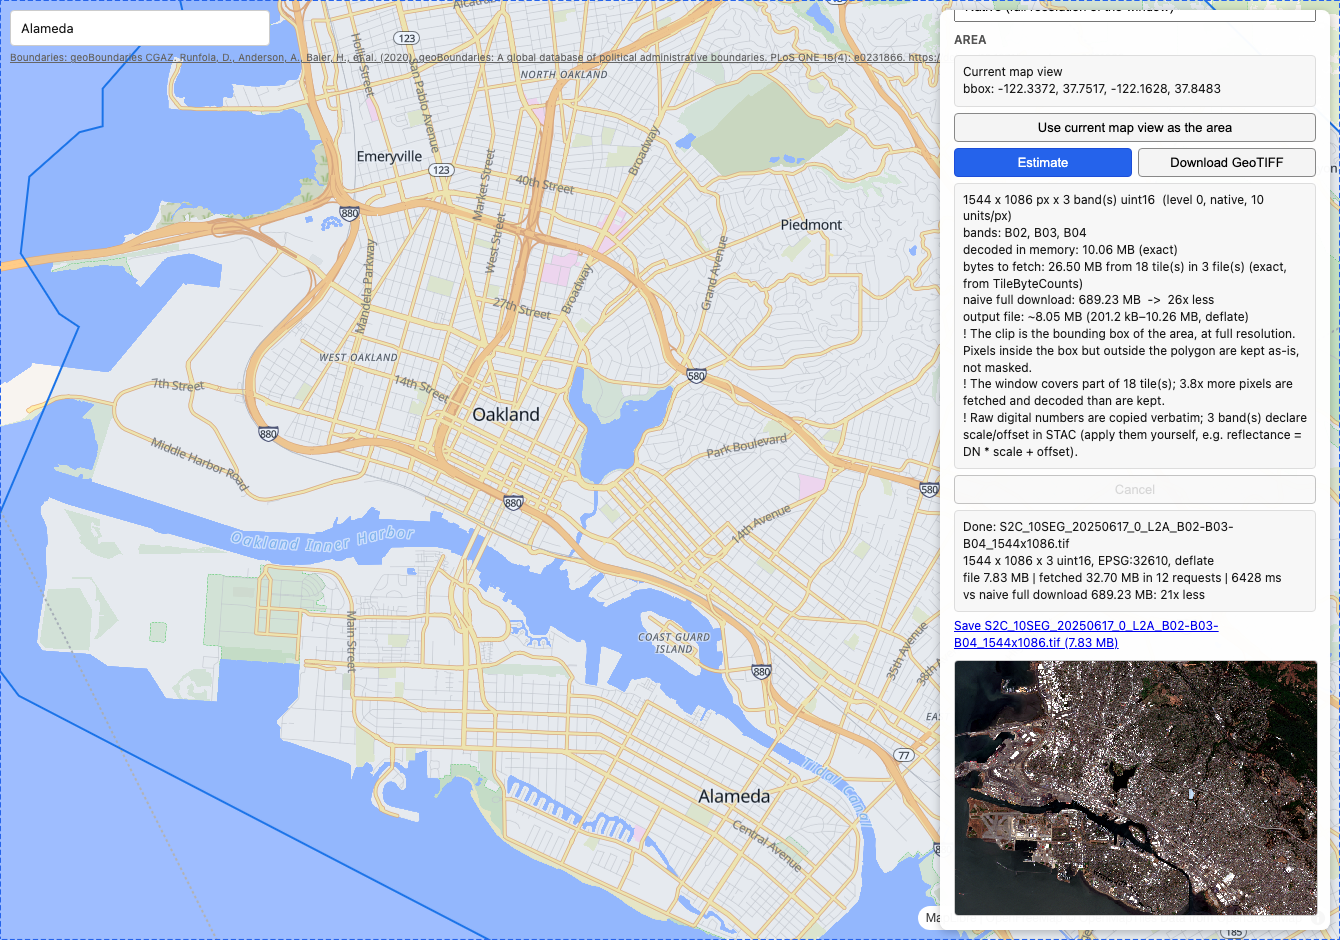
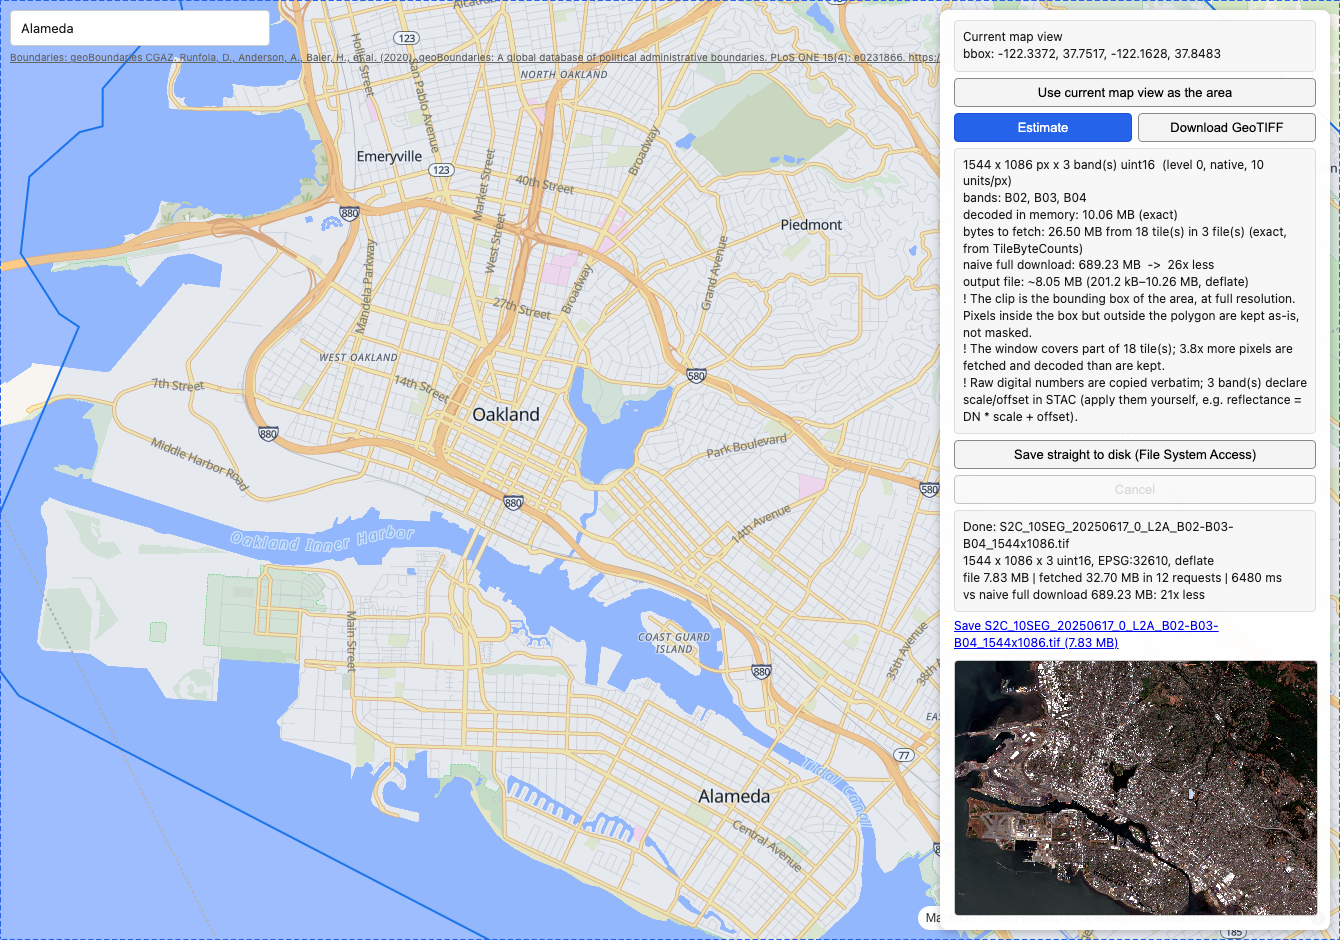
raster-demo: offer the direct-to-disk sink where the browser has it
`showSaveFilePicker` needs a user gesture, so the picker runs before
`downloadRaster()` and the resolved handle is passed in as a
`fileSystemSink` (design doc §3.4). It is the only way past the 256 MB
blob-sink ceiling, which a full-resolution multi-band window reaches
quickly. The memory-sink path stays the default, because it is what the
Playwright verifier can drive and what feeds the in-page preview.

Claude-Session: https://claude.ai/code/session_01NCUyfYoJW1YsifSC2aJmtw

Changed region(s): [[0.7037, 0.0309, 0.9791, 0.4936]]

diff --git a/examples/raster-demo/index.html b/examples/raster-demo/index.html
@@ -85,6 +85,7 @@
     <div id="ceilingText"></div>
     <button id="acceptCeilingBtn">Download anyway</button>
   </div>
+  <button id="saveToDiskBtn" style="display:none;">Save straight to disk (File System Access)</button>
   <button id="cancelBtn" disabled>Cancel</button>
   <div id="downloadInfo" style="display:none;"></div>
   <a id="downloadLink" class="download-link" style="display:none;"></a>
@@ -94,7 +95,7 @@
 <script type="module">
 import { Geocoder } from '@cnmw/geocoder-core';
 import { GeocoderControl } from '@cnmw/maplibre';
-import { memorySink } from '@cnmw/download-core';
+import { memorySink, fileSystemSink } from '@cnmw/download-core';
 import {
   openRaster,
   describeRasterDataset,
@@ -315,13 +316,13 @@ el('estimateBtn').addEventListener('click', async () => {
 
 // --- download ------------------------------------------------------------
 let handle = null;
-async function startDownload(acceptCeiling) {
+async function startDownload(acceptCeiling, customSink) {
   el('downloadInfo').style.display = 'block';
   el('downloadInfo').textContent = 'Reading tiles…';
   el('downloadLink').style.display = 'none';
   el('preview').style.display = 'none';
   el('cancelBtn').disabled = false;
-  const sink = memorySink();
+  const sink = customSink ?? memorySink();
   handle = downloadRaster(descriptor, area, filterSpec(), {}, { sink, sources, acceptCeiling });
   handle.on('progress', (p) => {
     if (p.phase === 'reading') el('downloadInfo').textContent = `Reading band ${p.bandsDone}/${p.bandsTotal} (${fmtBytes(p.bytesRead)}, ${p.requests} requests)…`;
@@ -331,18 +332,20 @@ async function startDownload(acceptCeiling) {
   try {
     const result = await handle.result;
     window.__cnmwLastResult = { ...result, sink: { kind: result.sink.kind } };
-    const blob = new Blob(sink.chunks, { type: 'image/tiff' });
+    const blob = sink.kind === 'memory' ? new Blob(sink.chunks, { type: 'image/tiff' }) : null;
     el('downloadInfo').textContent =
       `Done: ${result.filename}\n` +
       `${result.width} x ${result.height} x ${result.bands.length} ${result.dtype}, EPSG:${result.epsg}, ${result.compression}\n` +
       `file ${fmtBytes(result.bytes)} | fetched ${fmtBytes(result.readBytes)} in ${result.requests} requests | ${result.elapsedMs} ms\n` +
       `vs naive full download ${fmtBytes(result.naiveBytes)}: ${(result.naiveBytes / result.readBytes).toFixed(0)}x less`;
-    const a = el('downloadLink');
-    a.href = URL.createObjectURL(blob);
-    a.download = result.filename;
-    a.textContent = `Save ${result.filename} (${fmtBytes(result.bytes)})`;
-    a.style.display = 'block';
-    await drawPreview(blob, result.bands);
+    if (blob) {
+      const a = el('downloadLink');
+      a.href = URL.createObjectURL(blob);
+      a.download = result.filename;
+      a.textContent = `Save ${result.filename} (${fmtBytes(result.bytes)})`;
+      a.style.display = 'block';
+      await drawPreview(blob, result.bands);
+    }
   } catch (err) {
     el('downloadInfo').textContent = `${err.code === 'CANCELLED' ? 'Cancelled' : `Error (${err.code ?? 'ERROR'})`}: ${err.message}`;
   } finally {
@@ -350,6 +353,22 @@ async function startDownload(acceptCeiling) {
   }
 }
 el('downloadBtn').addEventListener('click', () => startDownload(false));
+
+// The direct-to-disk path: `showSaveFilePicker` needs a user gesture, so the
+// handle is created *after* the picker resolves (design doc 3.4). It is the
+// only way past the 256 MB blob-sink ceiling, so it is offered wherever the
+// API exists.
+if (typeof window.showSaveFilePicker === 'function') {
+  el('saveToDiskBtn').style.display = 'block';
+  el('saveToDiskBtn').addEventListener('click', async () => {
+    try {
+      const fsHandle = await window.showSaveFilePicker({ suggestedName: 'clip.tif' });
+      await startDownload(false, await fileSystemSink({ handle: fsHandle }));
+    } catch (err) {
+      if (err?.name !== 'AbortError') el('downloadInfo').textContent = `Error: ${err.message}`;
+    }
+  });
+}
 el('acceptCeilingBtn').addEventListener('click', () => {
   if (handle?.state === 'blocked') handle.acceptCeiling();
   else startDownload(true);
